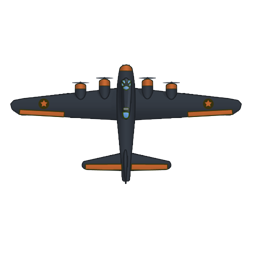
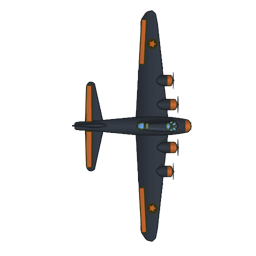
dsdnuiadsbduaddad bomber2

Changed region(s): [[0.0312, 0.0312, 0.9688, 0.9688]]

diff --git a/game/game.py b/game/game.py
@@ -18,6 +18,8 @@ class Game:
             assets_manager.images['policecar'], (20, 280), assets_manager.images['bullet'],
             self.player_collision_group
         )
+        self.bomber = Bomber()
+
         self.warn = Warn(assets_manager.images['warning sign'], 30, 300)
         self.player = Player(
             assets_manager.images['motorbike'], SCREEN_WIDTH // 2, SCREEN_HEIGHT // 2
@@ -110,6 +112,7 @@ class Game:
             self.buildings.update(t)
             self.player.update(t)
             self.policecar.update(t)
+            self.bomber.update(t)
             self.obstacle_manager.update(t)
             self.laser.update(t)
             self.arrow_image = pygame.transform.rotate(
@@ -140,6 +143,7 @@ class Game:
         self.roads.draw(window)
         self.buildings.draw(window)
         self.policecar.draw(window)
+        self.bomber.draw(window)
         self.warn.draw(window)
         self.laser.draw(window)
         self.obstacle_manager.draw(window)

diff --git a/game/sprites/bomber.py b/game/sprites/bomber.py
@@ -1,6 +1,7 @@
 import pygame
 
 from game.assets_manager import assets_manager
+from game.constants import *
 
 class Bomber(pygame.sprite.Sprite):
     def __init__(self) -> None:
@@ -9,6 +10,7 @@ class Bomber(pygame.sprite.Sprite):
         self.animation = assets_manager.animations['bomber']
         self.image = self.animation[0]
         self.rect = self.animation[0].get_rect()
+        self.rect.topleft = (400, 400)
         self.frame = 0
 
     def update(self, t):

diff --git a/game/sprites/__init__.py b/game/sprites/__init__.py
@@ -9,8 +9,9 @@ from .player import Player
 from .policecar import PoliceCar
 from .road import Road
 from .warningsign import Warn
+from .bomber import Bomber
 
 __all__ = [
     'Building', 'BuildingManager', 'Bullet', 'Explode', 'Laser', 'Obstacle', 'ObstacleManager',
-    'Player', 'PoliceCar', 'Road', 'Warn'
+    'Player', 'PoliceCar', 'Road', 'Warn', 'Bomber'
 ]
